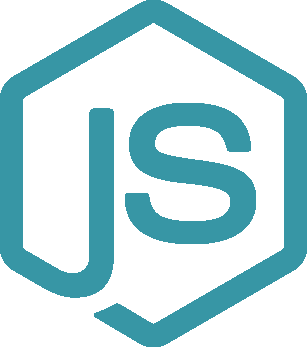
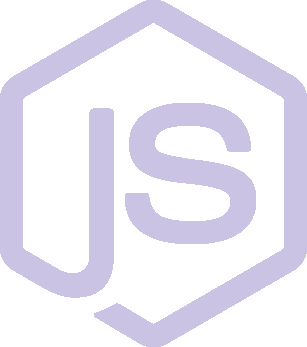
style categories list

diff --git a/public/assets/css/app.css b/public/assets/css/app.css
@@ -11618,7 +11618,6 @@ body #content .section-content {
 #categories #categories-list li a .category-img-wrapper {
   width: 200px;
   height: 200px;
-  border-radius: 50%;
   display: -webkit-flex;
   display: -ms-flexbox;
   display: flex;
@@ -11636,6 +11635,7 @@ body #content .section-content {
 
 #categories #categories-list li a figcaption {
   color: #4d37a5;
+  font-weight: 100;
 }
 
 .page-number {
@@ -11950,7 +11950,7 @@ nav .social-links .github:hover i:first-child {
 }
 
 footer {
-  background: #3796A5;
+  background: #edebf6;
   height: 400px;
 }
 

diff --git a/resources/assets/sass/sections/posts.sass b/resources/assets/sass/sections/posts.sass
@@ -20,8 +20,8 @@
 				.category-img-wrapper
 					width: 200px
 					height: 200px
-					border-radius: 50%
-					// border: 7px solid $main-color-dark
+					// border-radius: 50%
+					// border: 2px solid $main-color-dark
 					display: flex
 					justify-content: center
 					align-items: center
@@ -31,6 +31,7 @@
 
 				figcaption
 					color: $main-color-dark
+					font-weight: 100
 					// margin: 15px 0 25px 0
 
 .page-number

diff --git a/resources/assets/sass/sections/post.sass b/resources/assets/sass/sections/post.sass
@@ -1,9 +1,9 @@
 #post-title
-	text-align: center;
-	margin: 0 0 40px;
+	text-align: center
+	margin: 0 0 40px
 
 #post-meta-info
-	color: rgba(169,68,66,0.50);
-	font-size: 12px;
-	text-align: right;
-	margin-top: 20px;
+	color: rgba(169,68,66,0.50)
+	font-size: 12px
+	text-align: right
+	margin-top: 20px

diff --git a/resources/assets/sass/partials/footer.sass b/resources/assets/sass/partials/footer.sass
@@ -1,3 +1,3 @@
 footer
-    background: #3796A5
+    background: $main-color-light
     height: 400px

diff --git a/resources/views/blog/partials/post-block.blade.php b/resources/views/blog/partials/post-block.blade.php
@@ -1,6 +1,6 @@
 <article id="{{ $post->id }}">
     <h2 id="post-title"> {{ $post->title }} </h2>
-    {!! nl2br(e($post->content_html)) !!}
+    {!! nl2br(e($post->content)) !!}
 </article>
 <div id="post-meta-info">
     <em id="comment-amount">comments: 5</em> |
